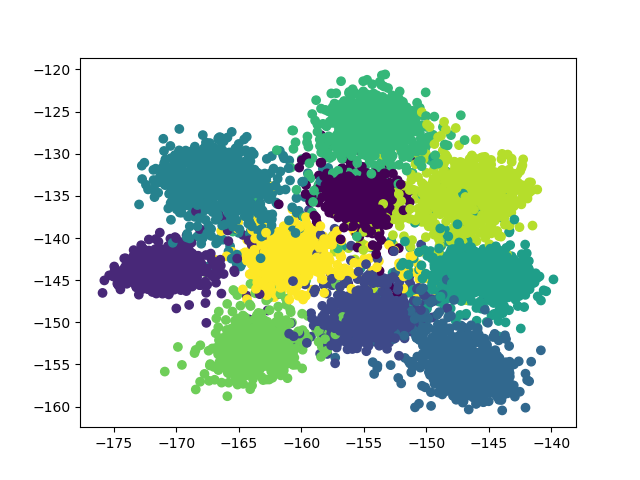
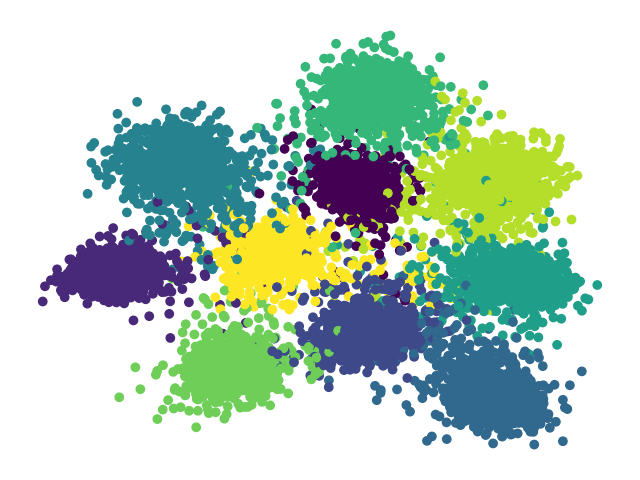
v0.3

diff --git a/plot.py b/plot.py
@@ -39,6 +39,10 @@ for t, data in tqdm(enumerate(dataiter)):
 
 X = X.detach().numpy()
 y = y.detach().numpy()
+
+
 plt.figure()
+plt.axis('off')
+plt.tight_layout()
 plt.scatter(X[:, 0], X[:, 1], c=y)
 plt.savefig('result.png')
